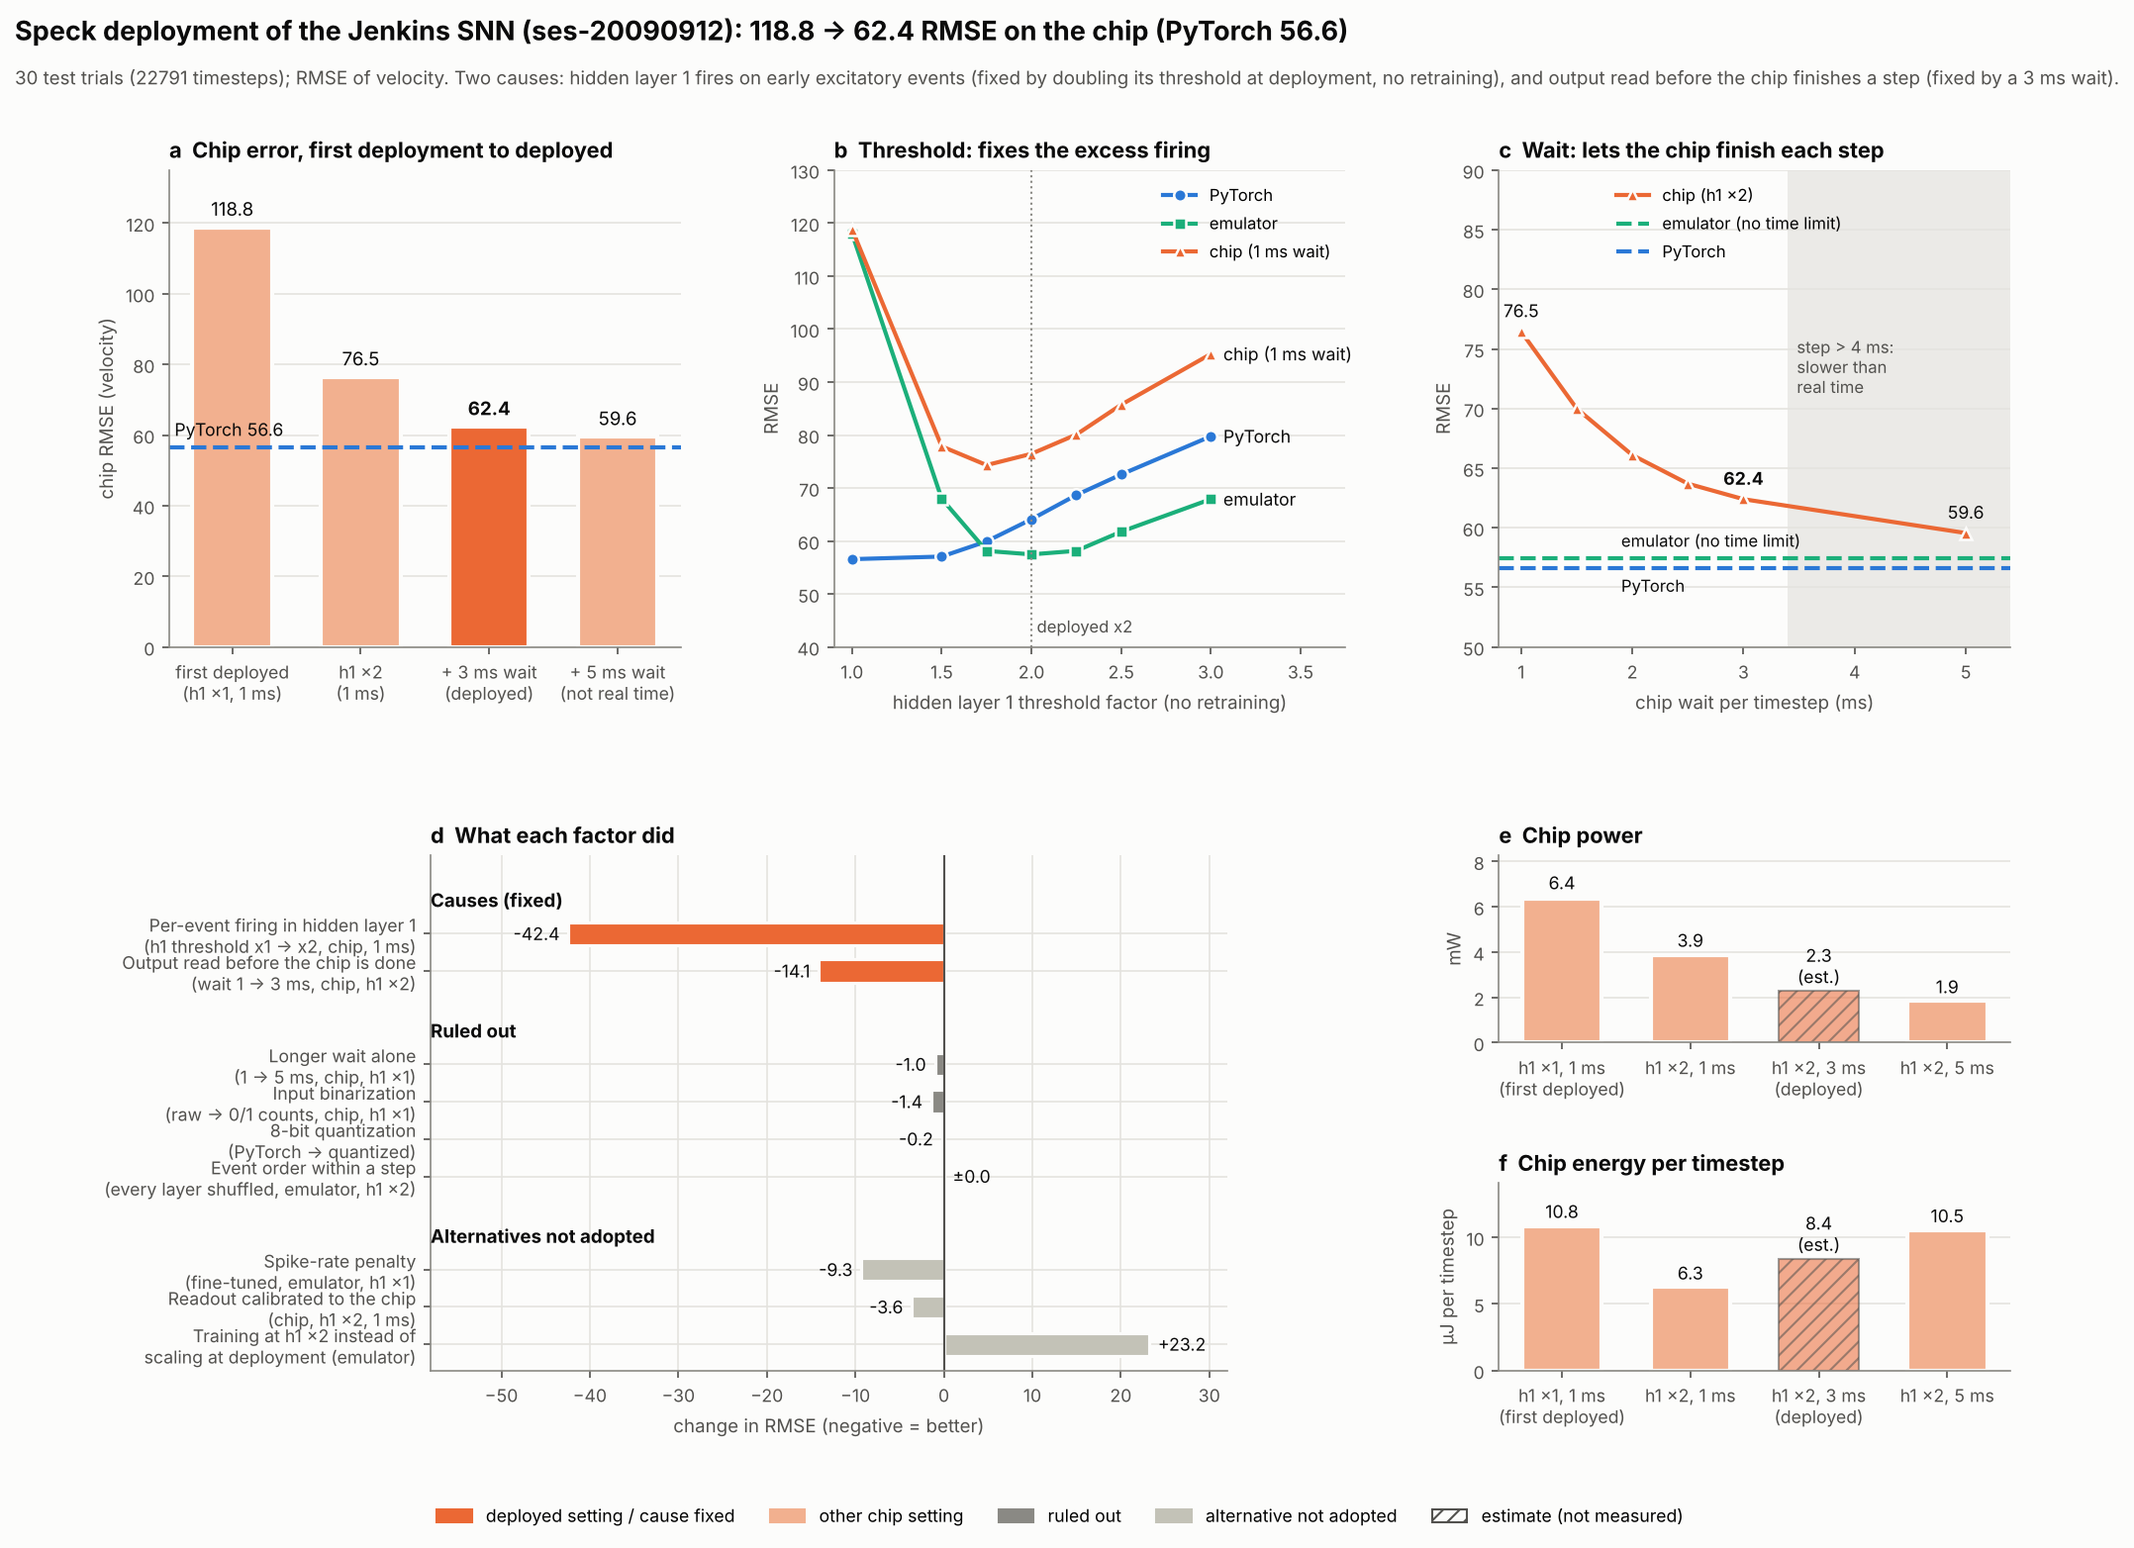
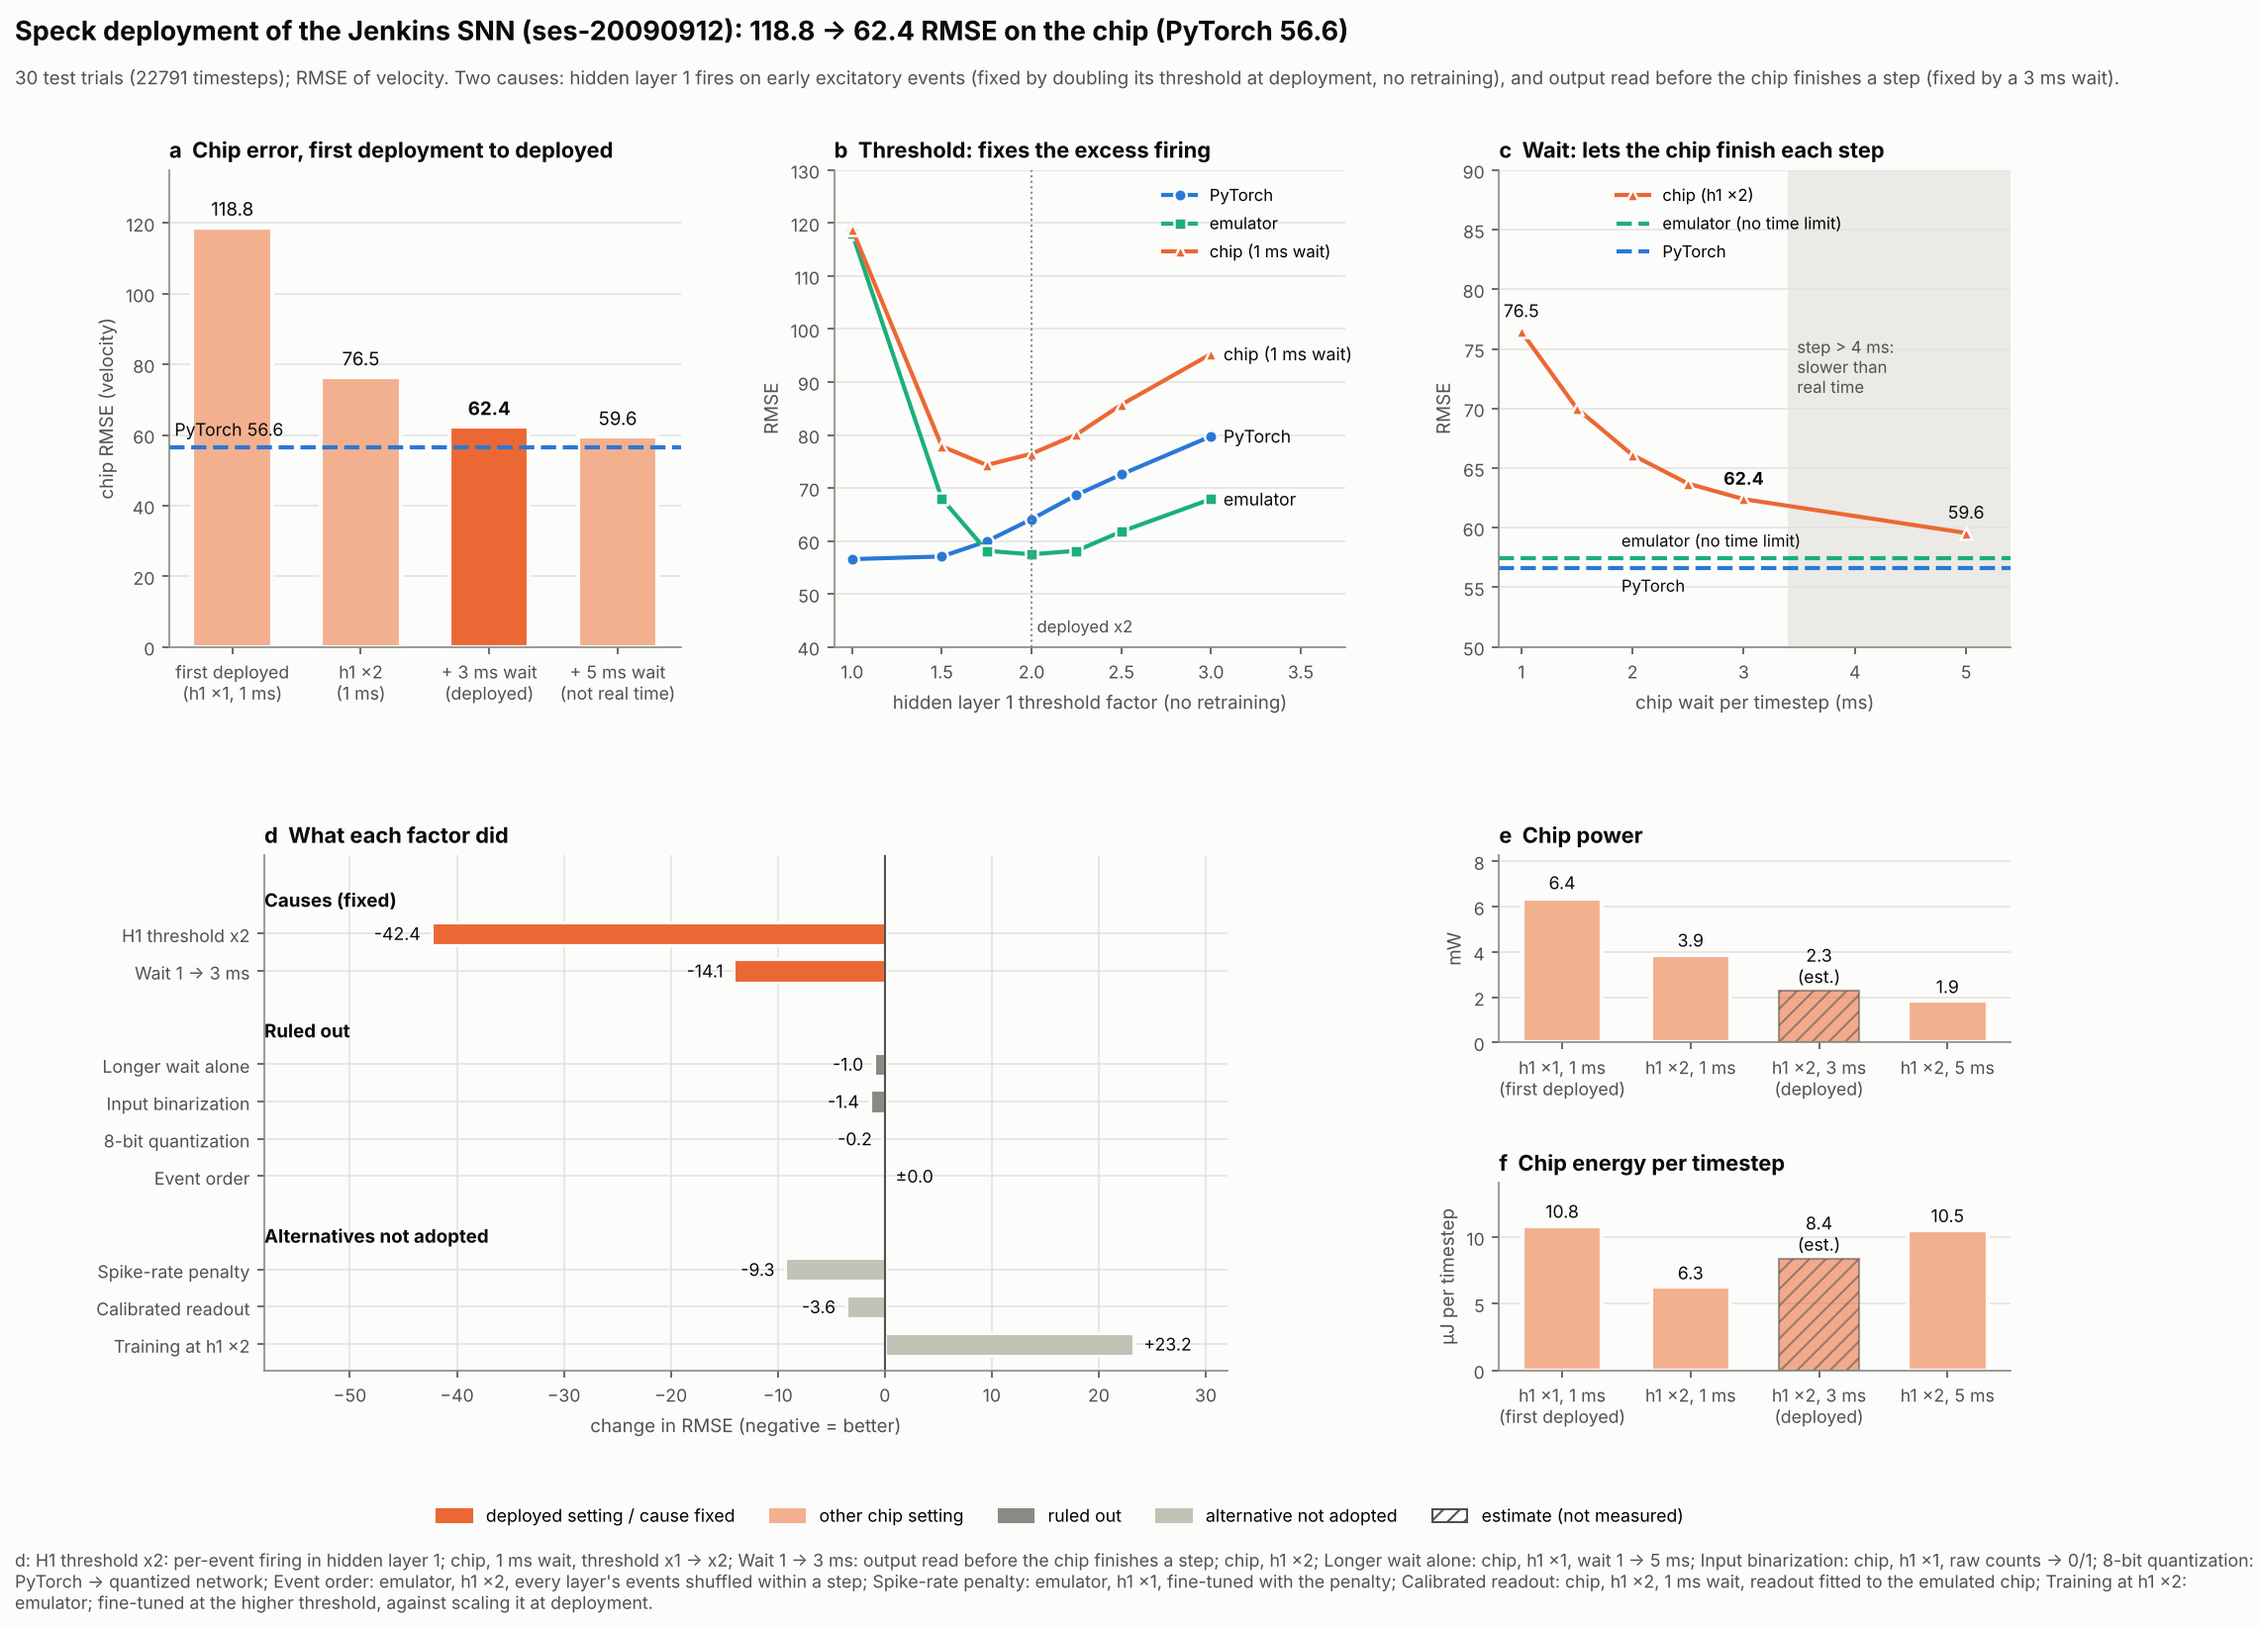
Deployment figure: short factor labels in panel d, details in a caption
Claude-Session: https://claude.ai/code/session_01HJF1q5RQDmW1PXiwxM4ivs

diff --git a/main/inference/plot_speck_deployment.py b/main/inference/plot_speck_deployment.py
@@ -130,8 +130,9 @@ def panel_factors(ax, d):
                 va='center', ha='left' if f['delta'] >= 0 else 'right', fontsize=8.5, color=INK)
     for group, r in group_rows.items():
         ax.text(-58, r, group, fontsize=9, fontweight='bold', color=INK, va='center')
+
     ax.set_yticks(rows)
-    ax.set_yticklabels(labels, fontsize=7.8)
+    ax.set_yticklabels(labels, fontsize=8.5)
     ax.set_ylim(rows[-1] + 0.7, -0.4)     # top to bottom
     ax.axvline(0, color=INK_2, linewidth=1)
     ax.set_xlim(-58, 32)
@@ -178,7 +179,7 @@ def main(args):
     ax_f = fig.add_subplot(grid[1, 0])
     panel_factors(ax_f, d)
     pos = ax_f.get_position()
-    ax_f.set_position([pos.x0 + 0.11, pos.y0, pos.width + 0.12, pos.height])
+    ax_f.set_position([pos.x0 + 0.04, pos.y0, pos.width + 0.19, pos.height])
     energy = grid[1, 2].subgridspec(2, 1, hspace=0.75)
     panel_energy(fig.add_subplot(energy[0]), d, 'power_mw', 'mW', 'e  Chip power')
     panel_energy(fig.add_subplot(energy[1]), d, 'energy_uj', 'µJ per timestep', 'f  Chip energy per timestep')
@@ -194,6 +195,8 @@ def main(args):
                         Patch(color=MUTED, label='ruled out'), Patch(color='#c3c2b7', label='alternative not adopted'),
                         Patch(facecolor=SURFACE, edgecolor=INK_2, hatch='///', label='estimate (not measured)')],
                loc='lower center', ncol=5, frameon=False, fontsize=8.5, bbox_to_anchor=(0.5, 0.0))
+    caption = 'd: ' + '; '.join(f"{f['label']}: {f['detail']}" for f in d['factors']) + '.'
+    fig.text(0.06, -0.005, caption, fontsize=8.5, color=INK_2, va='top', ha='left', wrap=True)
     os.makedirs(args.out_dir, exist_ok=True)
     path = os.path.join(args.out_dir, 'speck_deployment_jenkins.png')
     fig.savefig(path, dpi=150, facecolor=SURFACE, bbox_inches='tight')
